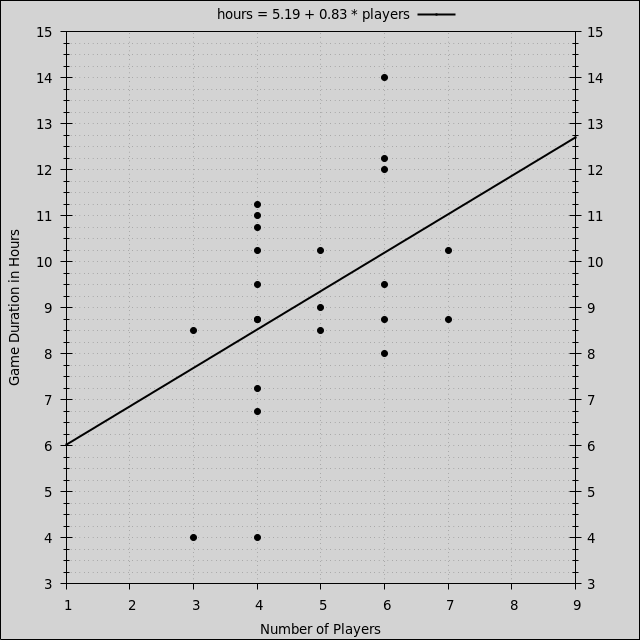
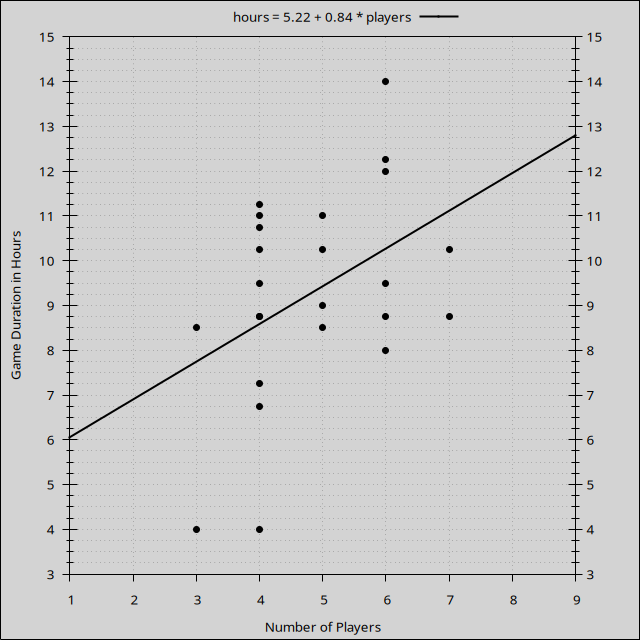
Update games.txt

diff --git a/leaderboard/README.md b/leaderboard/README.md
@@ -4,7 +4,7 @@
 - [Games](#games)
 - [License](#license)
 
-Last updated 2023-07-30 01:35 UTC.
+Last updated 2024-12-15 01:23 UTC.
 
 # Players
 
@@ -20,19 +20,19 @@ Last updated 2023-07-30 01:35 UTC.
 | **Player** | **Games** | **Curr. Rating** | **Avg Rating** | **Avg Pts.** | **Win Rate** | **1st Place** | **2nd Place** | **3rd Place** |
 | :--- | :---: | :---: | :---: | :---: | :---: | :---: | :---: | :---: |
 | PA | 17 | 1296 | 1230 | 9.29 | 51% | 59% (10) | 24% (4) | 6% (1) |
-| AlexC | 28 | 1103 | 1087 | 8.07 | 11% | 14% (4) | 32% (9) | 39% (11) |
+| Scott | 3 | 1174 | 1091 | 9.67 | 28% | 33% (1) | 67% (2) | 0% (0) |
+| AlexC | 29 | 1127 | 1089 | 8.14 | 10% | 14% (4) | 34% (10) | 38% (11) |
 | Rob | 7 | 988 | 1053 | 8.29 | 21% | 29% (2) | 14% (1) | 14% (1) |
-| Scott | 2 | 1095 | 1050 | 9.50 | 0% | 0% (0) | 100% (2) | 0% (0) |
-| Jess | 1 | 1044 | 1044 | 4.00 | 0% | 0% (0) | 0% (0) | 100% (1) |
 | Wendi | 23 | 1132 | 1042 | 7.61 | 12% | 17% (4) | 22% (5) | 17% (4) |
 | Andy | 10 | 931 | 1025 | 7.90 | 12% | 10% (1) | 10% (1) | 30% (3) |
 | Ronan | 15 | 1216 | 1019 | 7.87 | 21% | 27% (4) | 13% (2) | 13% (2) |
+| Jess | 2 | 974 | 1009 | 5.50 | 0% | 0% (0) | 0% (0) | 50% (1) |
 | Jay | 1 | 991 | 991 | 4.00 | 0% | 0% (0) | 0% (0) | 0% (0) |
 | AlexP | 7 | 1153 | 981 | 6.71 | 14% | 14% (1) | 14% (1) | 14% (1) |
-| Joseph | 1 | 935 | 935 | 4.00 | 0% | 0% (0) | 0% (0) | 0% (0) |
+| Joseph | 2 | 965 | 950 | 6.50 | 0% | 0% (0) | 0% (0) | 50% (1) |
 | Nick | 19 | 1067 | 894 | 6.42 | 7% | 11% (2) | 16% (3) | 16% (3) |
-| Rachel | 4 | 804 | 887 | 4.75 | 0% | 0% (0) | 0% (0) | 25% (1) |
 | Eftychi | 1 | 868 | 868 | 0.00 | 0% | 0% (0) | 0% (0) | 0% (0) |
+| Rachel | 5 | 755 | 861 | 5.00 | 0% | 0% (0) | 0% (0) | 20% (1) |
 
 Average victory points per game are adjusted relative to 10-point games, and effective win rates are calculated relative to 6-player games.
 
@@ -75,17 +75,17 @@ Effective win rates are calculated relative to 6-player games.
 | :--- | :---: | :---: | :---: | :---: | :---: | :---: | :---: | :---: |
 | Clan of Saar | 7 | 1073 | 1160 | 8.86 | 29% | 43% (3) | 14% (1) | 29% (2) |
 | Naalu Collective | 4 | 1202 | 1131 | 8.75 | 42% | 50% (2) | 25% (1) | 0% (0) |
-| Argent Flight | 10 | 1122 | 1109 | 8.30 | 28% | 40% (4) | 20% (2) | 10% (1) |
+| Argent Flight | 11 | 1040 | 1103 | 8.18 | 26% | 36% (4) | 18% (2) | 9% (1) |
 | Winnu | 5 | 1131 | 1094 | 7.40 | 27% | 40% (2) | 0% (0) | 60% (3) |
 | Sardakk N'orr | 4 | 1114 | 1090 | 6.75 | 25% | 25% (1) | 25% (1) | 25% (1) |
 | Titans of Ul | 5 | 1121 | 1075 | 9.20 | 30% | 40% (2) | 20% (1) | 20% (1) |
 | L1z1x Mindnet | 6 | 1132 | 1075 | 8.17 | 28% | 33% (2) | 33% (2) | 17% (1) |
-| Ghosts of Creuss | 1 | 1071 | 1071 | 9.00 | 0% | 0% (0) | 100% (1) | 0% (0) |
+| Ghosts of Creuss | 2 | 1065 | 1068 | 9.00 | 0% | 0% (0) | 50% (1) | 50% (1) |
 | Yssaril Tribes | 4 | 1178 | 1054 | 8.50 | 25% | 25% (1) | 25% (1) | 25% (1) |
-| Emirates of Hacan | 3 | 930 | 1051 | 7.33 | 33% | 33% (1) | 33% (1) | 0% (0) |
+| Emirates of Hacan | 4 | 1029 | 1046 | 8.00 | 25% | 25% (1) | 50% (2) | 0% (0) |
 | Arborec | 4 | 1154 | 1045 | 8.25 | 17% | 25% (1) | 50% (2) | 0% (0) |
-| Universities of Jol-Nar | 8 | 1110 | 1038 | 7.00 | 15% | 12% (1) | 25% (2) | 12% (1) |
-| Naaz-Rokha Alliance | 9 | 855 | 1029 | 7.00 | 17% | 22% (2) | 11% (1) | 22% (2) |
+| Universities of Jol-Nar | 9 | 968 | 1030 | 6.89 | 13% | 11% (1) | 22% (2) | 11% (1) |
+| Naaz-Rokha Alliance | 10 | 1031 | 1029 | 7.30 | 23% | 30% (3) | 10% (1) | 20% (2) |
 | Mentak Coalition | 3 | 1013 | 1026 | 6.67 | 0% | 0% (0) | 33% (1) | 33% (1) |
 | Federation of Sol | 8 | 1012 | 1026 | 8.38 | 6% | 12% (1) | 0% (0) | 88% (7) |
 | Empyrean | 5 | 889 | 1019 | 7.20 | 20% | 20% (1) | 0% (0) | 0% (0) |
@@ -140,6 +140,7 @@ Effective win rates are calculated relative to 6-player games.
 
 | **Game** | **Date** | **Mode** | **Points** | **Players** | **Results** |
 | :---: | :---: | :---: | :---: | :---: | :--- |
+| 29 | 2024-12-07 | Free-for-All | 10 | 5 | 11h00m, 1st Scott 10 Naaz-Rokha Alliance, 2nd AlexC 11 Emirates of Hacan, 3rd Joseph 9 Ghosts of Creuss, 4th Jess 7 Argent Flight, 5th Rachel 6 Universities of Jol-Nar |
 | 28 | 2023-07-29 | Free-for-All | 10 | 6 | 14h00m, 1st PA 10 Yssaril Tribes, 2nd Wendi 8 Naalu Collective, 3rd AlexC 8 Winnu, 4th Andy 6 Universities of Jol-Nar, 5th Joseph 4 Mentak Coalition, 6th Rachel 3 Naaz-Rokha Alliance |
 | 27 | 2022-02-12 | Free-for-All | 10 | 4 | 10h45m, 1st Ronan 10 L1z1x Mindnet, 2nd Wendi 10 Nomad, 3rd AlexC 10 Federation of Sol, 4th Rob 7 Clan of Saar |
 | 26 | 2022-01-22 | Free-for-All | 10 | 4 | 11h15m, 1st Nick 10 Arborec, 2nd Ronan 9 Sardakk N'orr, 3rd AlexC 9 Yssaril Tribes, 4th Rob 5 Vuil'raith Cabal |
